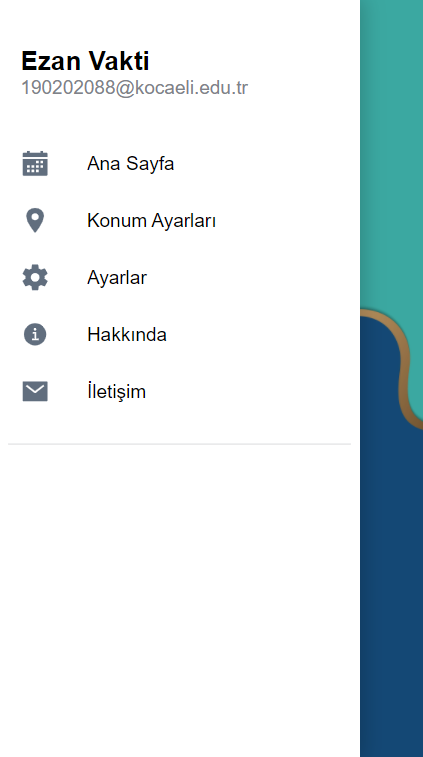
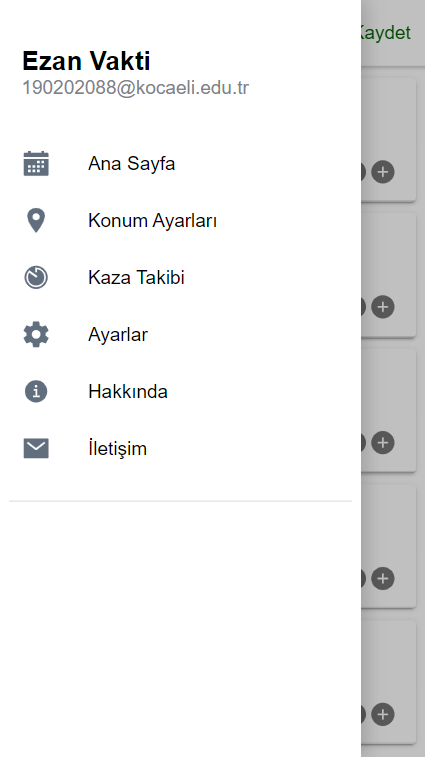
update

diff --git a/src/app/app-routing.module.ts b/src/app/app-routing.module.ts
@@ -9,35 +9,35 @@ const routes: Routes = [
   },
   {
     path: 'about',
-    loadChildren: () => import('./pages/about/about.module').then( m => m.AboutPageModule)
+    loadChildren: () => import('./pages/about/about.module').then(m => m.AboutPageModule)
   },
   {
     path: 'contact',
-    loadChildren: () => import('./pages/contact/contact.module').then( m => m.ContactPageModule)
+    loadChildren: () => import('./pages/contact/contact.module').then(m => m.ContactPageModule)
   },
   {
     path: 'settings',
-    loadChildren: () => import('./pages/settings/settings.module').then( m => m.SettingsPageModule)
+    loadChildren: () => import('./pages/settings/settings.module').then(m => m.SettingsPageModule)
   },
   {
     path: 'home',
-    loadChildren: () => import('./pages/home/home.module').then( m => m.HomePageModule)
+    loadChildren: () => import('./pages/home/home.module').then(m => m.HomePageModule)
   },
   {
     path: 'first',
-    loadChildren: () => import('./pages/first/first.module').then( m => m.FirstPageModule)
+    loadChildren: () => import('./pages/first/first.module').then(m => m.FirstPageModule)
   },
   {
     path: 'second/:id',
-    loadChildren: () => import('./pages/second/second.module').then( m => m.SecondPageModule)
+    loadChildren: () => import('./pages/second/second.module').then(m => m.SecondPageModule)
   },
   {
     path: 'third/:id',
-    loadChildren: () => import('./pages/third/third.module').then( m => m.ThirdPageModule)
+    loadChildren: () => import('./pages/third/third.module').then(m => m.ThirdPageModule)
   },
   {
     path: 'kaza',
-    loadChildren: () => import('./pages/kaza/kaza.module').then( m => m.KazaPageModule)
+    loadChildren: () => import('./pages/kaza/kaza.module').then(m => m.KazaPageModule)
   }
 ];
 
@@ -47,4 +47,4 @@ const routes: Routes = [
   ],
   exports: [RouterModule]
 })
-export class AppRoutingModule {}
+export class AppRoutingModule { }

diff --git a/src/app/services/data.service.ts b/src/app/services/data.service.ts
@@ -9,47 +9,47 @@ export class DataService {
 
   constructor(private http: HttpClient, private storage: Storage) { }
 
-  getLocalData(){
+  getLocalData() {
     return this.http.get("/assets/data/ulkeler.json");
   }
 
-  getRemoteData(link: string){
+  getRemoteData(link: string) {
     return this.http.get(link);
   }
 
-  async saveData(vakitler){
+  async saveData(vakitler) {
     await this.storage.set('vakitler', vakitler);
   }
 
-  async saveSettings(ayarlar){
+  async saveSettings(ayarlar) {
     await this.storage.set('ayarlar', ayarlar);
   }
 
-  async saveKazalar(kazalar){
+  async saveKazalar(kazalar) {
     await this.storage.set('kazalar', kazalar);
   }
 
-  async loadData(){
+  async loadData() {
     return this.storage.get('vakitler').then(val => {
       if (val != null && val != undefined) {
         return val;
-      }else return null
+      } else return null
     });
   }
 
-  async loadSettings(){
+  async loadSettings() {
     return this.storage.get('ayarlar').then(val => {
       if (val != null && val != undefined) {
         return val;
-      }else return null
+      } else return null
     });
   }
 
-  async loadKazalar(){
+  async loadKazalar() {
     return this.storage.get('kazalar').then(val => {
       if (val != null && val != undefined) {
         return val;
-      }else return null
+      } else return null
     });
   }
 }

diff --git a/src/app/pages/home/home.page.ts b/src/app/pages/home/home.page.ts
@@ -84,8 +84,8 @@ export class HomePage implements OnInit {
 
       seconds = totalSeconds;
 
-      if(hours == 0 && minutes == 0 && seconds == 0) {
-        this.sendNotify();
+      if (hours == 0 && minutes == 0 && seconds == 0) {
+        this.sendNotify(this.vakit);
       }
 
       return {
@@ -109,10 +109,10 @@ export class HomePage implements OnInit {
     this.destroyed$.complete();
   }
 
-  async sendNotify(){
+  async sendNotify(vakit: number) {
     let result = await this.dataService.loadSettings();
-    if(result['ayarlar'] && this.notify == false){
-      await this.notifyService.schedule(this.vakitler[this.vakit].isim);
+    if (result['ayarlar'] && this.notify == false) {
+      await this.notifyService.schedule(this.vakitler[vakit].isim);
       this.notify = true;
     }
   }
@@ -129,10 +129,10 @@ export class HomePage implements OnInit {
     this.changeDetector.detectChanges();
   }
 
-  async ionViewDidEnter(){
+  async ionViewDidEnter() {
     let result = await this.dataService.loadData();
     this.vakitJson = result;
-    if(this.vakitJson != null){
+    if (this.vakitJson != null) {
       this.tarihBul();
       this.setVeri(this.vakit);
       this.getElapsedTime(this.entries[0]);

diff --git a/src/app/pages/home/home.page.html b/src/app/pages/home/home.page.html
@@ -12,11 +12,13 @@
             <ion-title class="large-title" style="text-align:center">{{vakitler[vakit].isim}} Vaktine</ion-title>
             <div *ngFor="let entry of entries">
                 <span *ngIf="getElapsedTime(entry) as elapsed">
-                    <ion-title class="large-timer" style="text-align:center" size="large">{{elapsed.hours}}:{{elapsed.minutes}}:{{elapsed.seconds}}</ion-title>
+                    <ion-title class="large-timer" style="text-align:center" size="large">
+                        {{elapsed.hours}}:{{elapsed.minutes}}:{{elapsed.seconds}}</ion-title>
                 </span>
             </div>
             <ion-col class="alignment">
-                <ion-label class= "align" style="text-align:center">{{gun | date : 'dd'}}<br>{{gun | date : 'MMMM' : 'tr'}} {{gun | date : 'yyyy'}}<br>{{gun | date : 'EEEE' : 'tr'}}</ion-label>
+                <ion-label class="align" style="text-align:center">{{gun | date : 'dd'}}<br>{{gun | date : 'MMMM' :
+                    'tr'}} {{gun | date : 'yyyy'}}<br>{{gun | date : 'EEEE' : 'tr'}}</ion-label>
                 <ion-row>
                     <ion-col offset="2" size="8">
                         <ion-card *ngIf="vakitJson">

diff --git a/src/app/pages/third/third.page.ts b/src/app/pages/third/third.page.ts
@@ -9,22 +9,22 @@ import { ActivatedRoute, Router } from '@angular/router';
 })
 export class ThirdPage implements OnInit {
 
-  constructor(private dataService: DataService, private activatedRoute: ActivatedRoute, private router: Router) { 
+  constructor(private dataService: DataService, private activatedRoute: ActivatedRoute, private router: Router) {
     const id = this.activatedRoute.snapshot.paramMap.get('id');
     this.ilceleriGetir(id);
   }
-  
+
   public ilceler;
   public vakitler;
-  
-  ilceleriGetir(ilce: string){
-    this.dataService.getRemoteData("https://ezanvakti.herokuapp.com/ilceler/"+ilce).subscribe(data => {
+
+  ilceleriGetir(ilce: string) {
+    this.dataService.getRemoteData("https://ezanvakti.herokuapp.com/ilceler/" + ilce).subscribe(data => {
       this.ilceler = data;
     })
   }
 
-  kaydet(vakitler: string){
-    this.dataService.getRemoteData("https://ezanvakti.herokuapp.com/vakitler/"+vakitler).subscribe(data => {
+  kaydet(vakitler: string) {
+    this.dataService.getRemoteData("https://ezanvakti.herokuapp.com/vakitler/" + vakitler).subscribe(data => {
       this.vakitler = data;
       this.dataService.saveData(this.vakitler);
     })

diff --git a/src/app/pages/kaza/kaza.page.html b/src/app/pages/kaza/kaza.page.html
@@ -4,21 +4,21 @@
       <ion-menu-button></ion-menu-button>
     </ion-buttons>
     <ion-title>Kaza Takibi</ion-title>
-    <ion-buttons (click) = "kaydet()" class="kaydet" slot="end">Kaydet</ion-buttons>
+    <ion-buttons (click)="kaydet()" class="kaydet" slot="end">Kaydet</ion-buttons>
   </ion-toolbar>
 </ion-header>
 
 <ion-content padding>
-	<ion-card *ngFor="let vakit of vakitler;let i = index">
-		<ion-card-header>
+  <ion-card *ngFor="let vakit of vakitler;let i = index">
+    <ion-card-header>
       <ion-title>
         {{i+1}}. {{vakit.vakit}} Namazı
       </ion-title>
     </ion-card-header>
-		<ion-item>
+    <ion-item>
       <ion-input type="number" min="0" [(ngModel)]="vakit.qty"></ion-input>
-			<ion-icon name="remove-circle" (click)="azalt(i)" item-right></ion-icon>
-			<ion-icon name="add-circle" (click)="artir(i)" item-right></ion-icon>
-		</ion-item>
-	</ion-card>
+      <ion-icon name="remove-circle" (click)="azalt(i)" item-right></ion-icon>
+      <ion-icon name="add-circle" (click)="artir(i)" item-right></ion-icon>
+    </ion-item>
+  </ion-card>
 </ion-content>

diff --git a/src/app/pages/settings/settings.page.ts b/src/app/pages/settings/settings.page.ts
@@ -8,26 +8,26 @@ import { DataService } from 'src/app/services/data.service';
 })
 export class SettingsPage implements OnInit {
   value: boolean;
-  
+
   constructor(private dataService: DataService) {
     this.ionViewDidEnter();
   }
 
-  async ionViewDidEnter(){
+  async ionViewDidEnter() {
     let result = await this.dataService.loadSettings();
-    if(result == null){
+    if (result == null) {
       this.value = true;
-      await this.dataService.saveSettings({'ayarlar': true});
-    }else{
+      await this.dataService.saveSettings({ 'ayarlar': true });
+    } else {
       this.value = result['ayarlar'];
     }
   }
 
-  async change(){
-    if(this.value == false){
-      await this.dataService.saveSettings({'ayarlar': false});
-    }else{
-      await this.dataService.saveSettings({'ayarlar': true});
+  async change() {
+    if (this.value == false) {
+      await this.dataService.saveSettings({ 'ayarlar': false });
+    } else {
+      await this.dataService.saveSettings({ 'ayarlar': true });
     }
   }
 

diff --git a/src/app/pages/second/second.page.ts b/src/app/pages/second/second.page.ts
@@ -10,7 +10,7 @@ import { ActivatedRoute, Router, NavigationExtras } from '@angular/router';
 export class SecondPage implements OnInit {
   ulke: any;
 
-  constructor(private dataService: DataService, private activatedRoute: ActivatedRoute, private router: Router) { 
+  constructor(private dataService: DataService, private activatedRoute: ActivatedRoute, private router: Router) {
     const id = this.activatedRoute.snapshot.paramMap.get('id');
     this.sehirleriGetir(id);
   }
@@ -18,8 +18,8 @@ export class SecondPage implements OnInit {
   public sehirler;
   public sehirID: string;
 
-  sehirleriGetir(sehir: string){
-    this.dataService.getRemoteData("https://ezanvakti.herokuapp.com/sehirler/"+sehir).subscribe(data => {
+  sehirleriGetir(sehir: string) {
+    this.dataService.getRemoteData("https://ezanvakti.herokuapp.com/sehirler/" + sehir).subscribe(data => {
       this.sehirler = data;
     })
   }

diff --git a/src/app/app.component.html b/src/app/app.component.html
@@ -1,14 +1,15 @@
 <ion-app>
   <ion-split-pane contentId="main-content">
     <ion-menu contentId="main-content" type="overlay">
-    
+
       <ion-content>
         <ion-list id="inbox-list">
           <ion-list-header>Ezan Vakti</ion-list-header>
           <ion-note>190202088@kocaeli.edu.tr</ion-note>
 
           <ion-menu-toggle auto-hide="false" *ngFor="let p of appPages; let i = index">
-            <ion-item (click)="selectedIndex = i" routerDirection="root" [routerLink]="[p.url]" lines="none" detail="false">
+            <ion-item (click)="selectedIndex = i" routerDirection="root" [routerLink]="[p.url]" lines="none"
+              detail="false">
               <ion-icon slot="start" [ios]="p.icon + '-outline'" [md]="p.icon + '-sharp'"></ion-icon>
               <ion-label>{{ p.title }}</ion-label>
             </ion-item>

diff --git a/src/app/pages/kaza/kaza.page.ts b/src/app/pages/kaza/kaza.page.ts
@@ -29,13 +29,13 @@ export class KazaPage implements OnInit {
     this.ionViewDidEnter();
   }
 
-  async ionViewDidEnter(){
+  async ionViewDidEnter() {
     let result = await this.dataService.loadKazalar();
-    if(result == null){
+    if (result == null) {
       await this.dataService.saveKazalar(this.vakitler);
       result = await this.dataService.loadKazalar();
     }
-    this.vakitler =  result;
+    this.vakitler = result;
   }
 
   artir(index: number) {
@@ -46,7 +46,7 @@ export class KazaPage implements OnInit {
     this.vakitler[index].qty -= 1;
   }
 
-  async kaydet(){
+  async kaydet() {
     await this.dataService.saveKazalar(this.vakitler);
     this.navCtrl.navigateRoot("/home")
   }

diff --git a/src/app/pages/about/about.page.html b/src/app/pages/about/about.page.html
@@ -16,7 +16,9 @@
 
   <div id="container">
     <strong class="capitalize">Hakkında</strong>
-    <p>Versiyon 1.0.0 | Namaz Vakti 2021</p>
+    <p><br>Seçilen ülke, şehir ve ilçe bilgilerine<br>göre bölgenin ezan vakitlerini<br>gösteren ve vakit dolduğunda
+      bildirim<br>gönderen uygulamadır. Kaza Takibi sayfasından<br>kaza namazlarınızı takip edebilirsiniz.</p>
+    <p><br>Versiyon 1.0.0 | Namaz Vakti 2021</p>
     <p>Hazırlayan: Muhammet Ali Bakınç</p>
     <p>190202088@kocaeli.edu.tr</p>
   </div>

diff --git a/src/index.html b/src/index.html
@@ -8,7 +8,8 @@
   <base href="/" />
 
   <meta name="color-scheme" content="light dark" />
-  <meta name="viewport" content="viewport-fit=cover, width=device-width, initial-scale=1.0, minimum-scale=1.0, maximum-scale=1.0, user-scalable=no" />
+  <meta name="viewport"
+    content="viewport-fit=cover, width=device-width, initial-scale=1.0, minimum-scale=1.0, maximum-scale=1.0, user-scalable=no" />
   <meta name="format-detection" content="telephone=no" />
   <meta name="msapplication-tap-highlight" content="no" />
 
